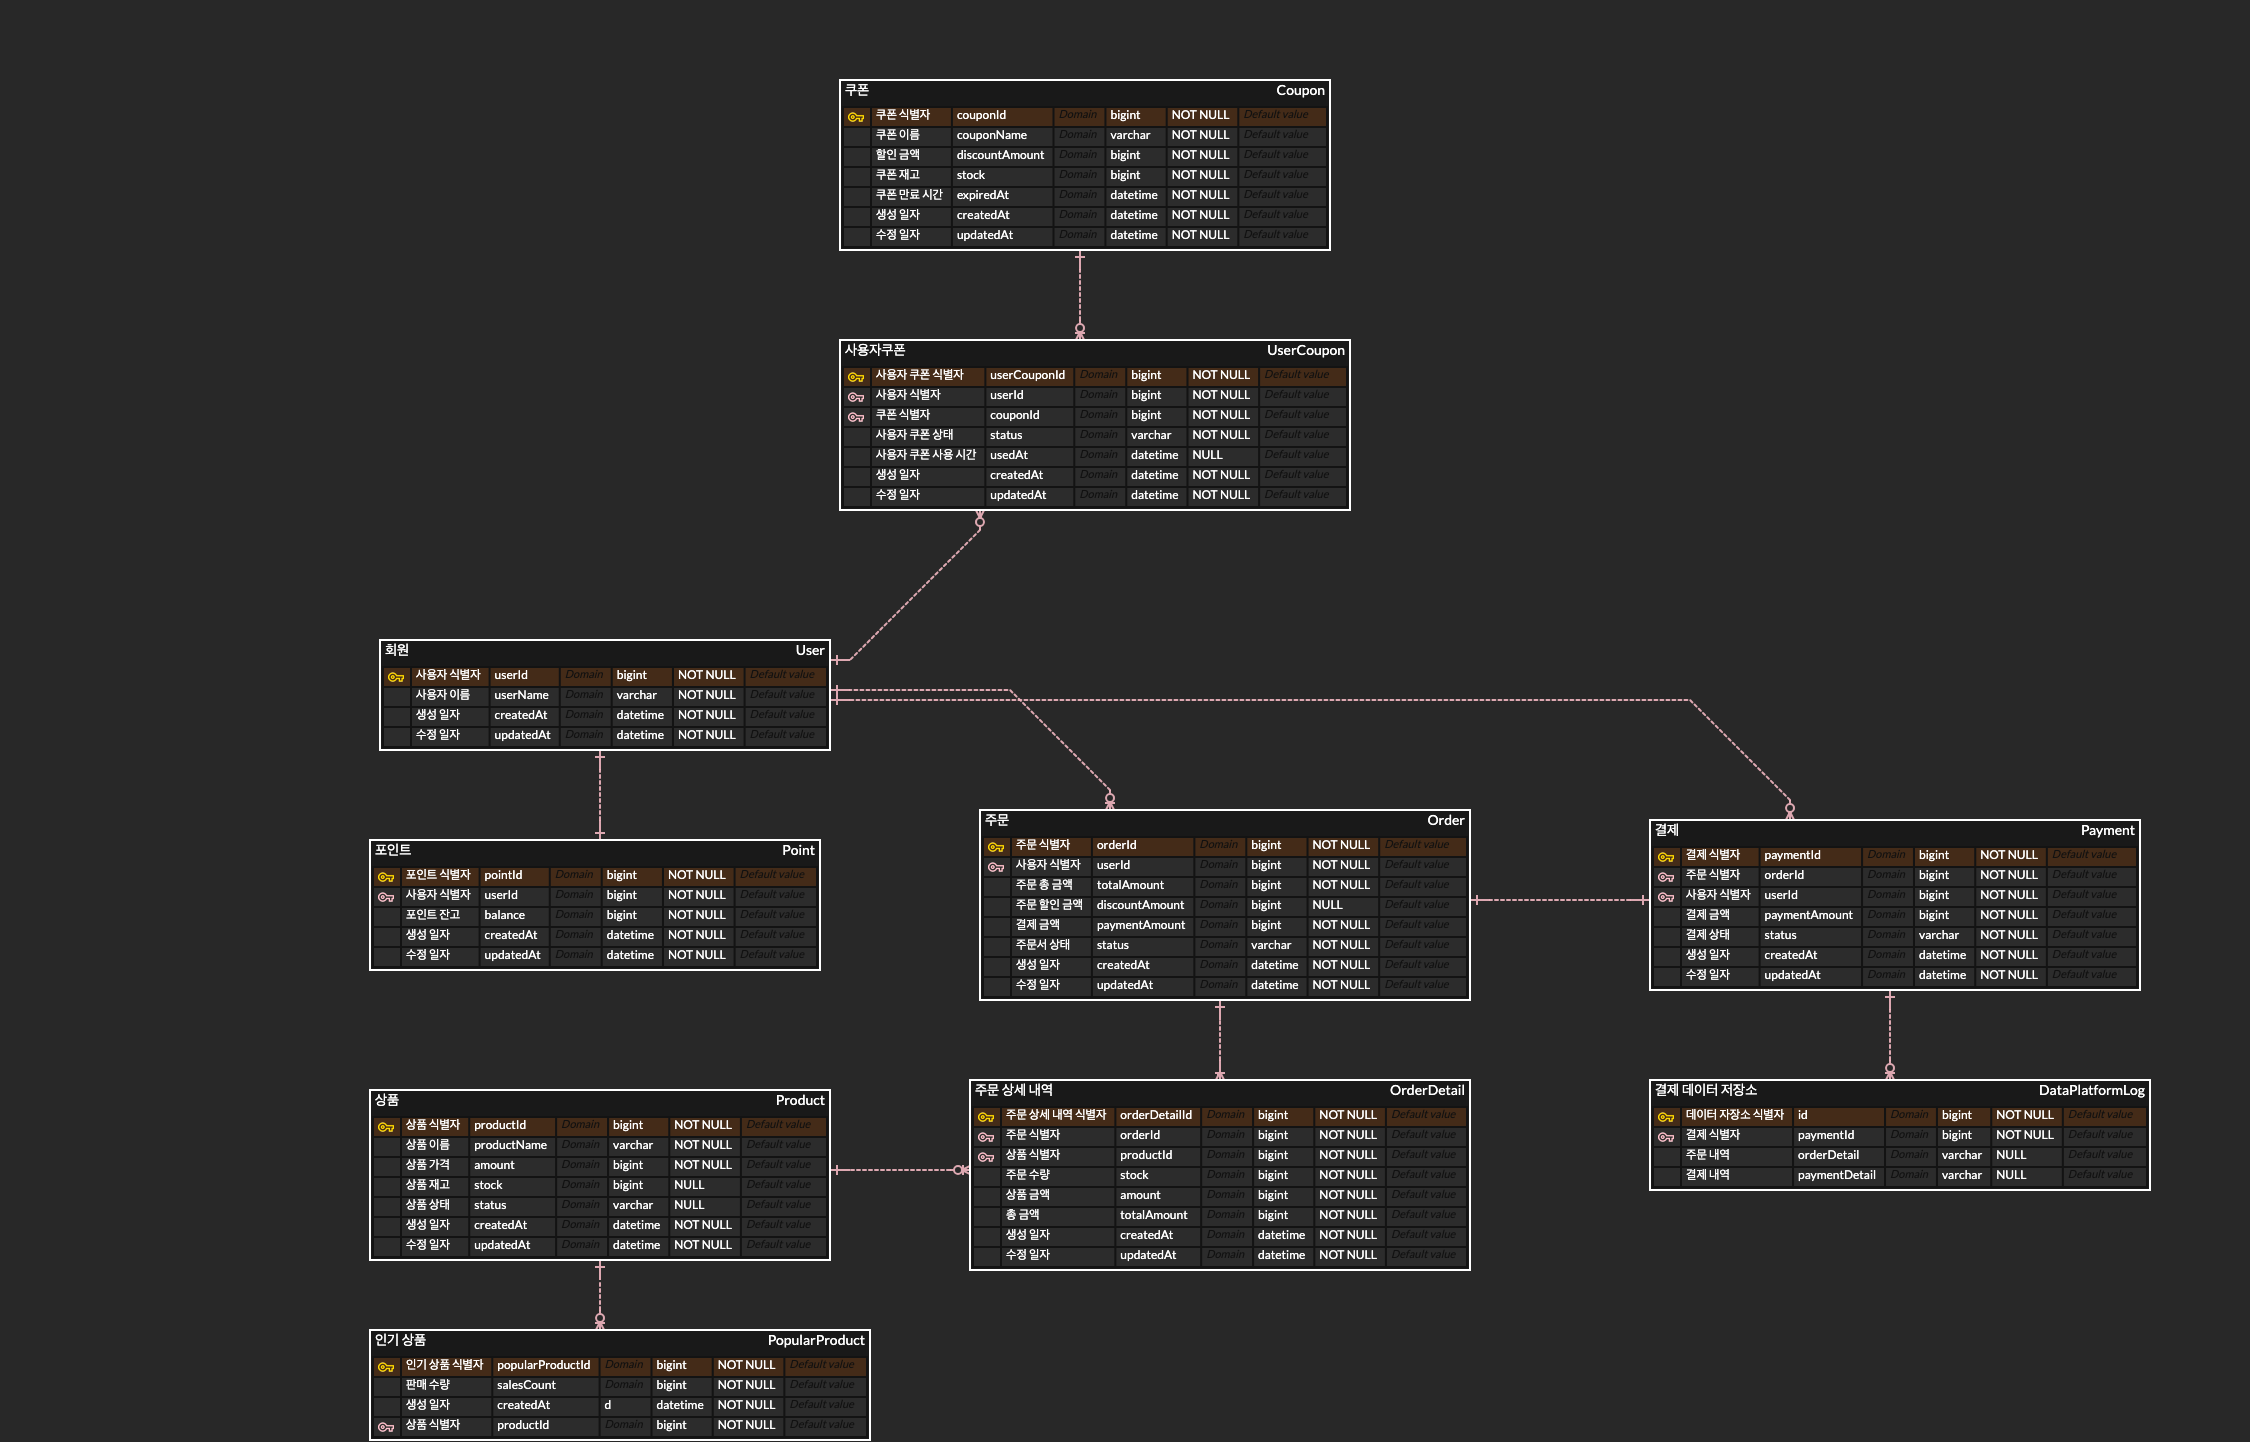
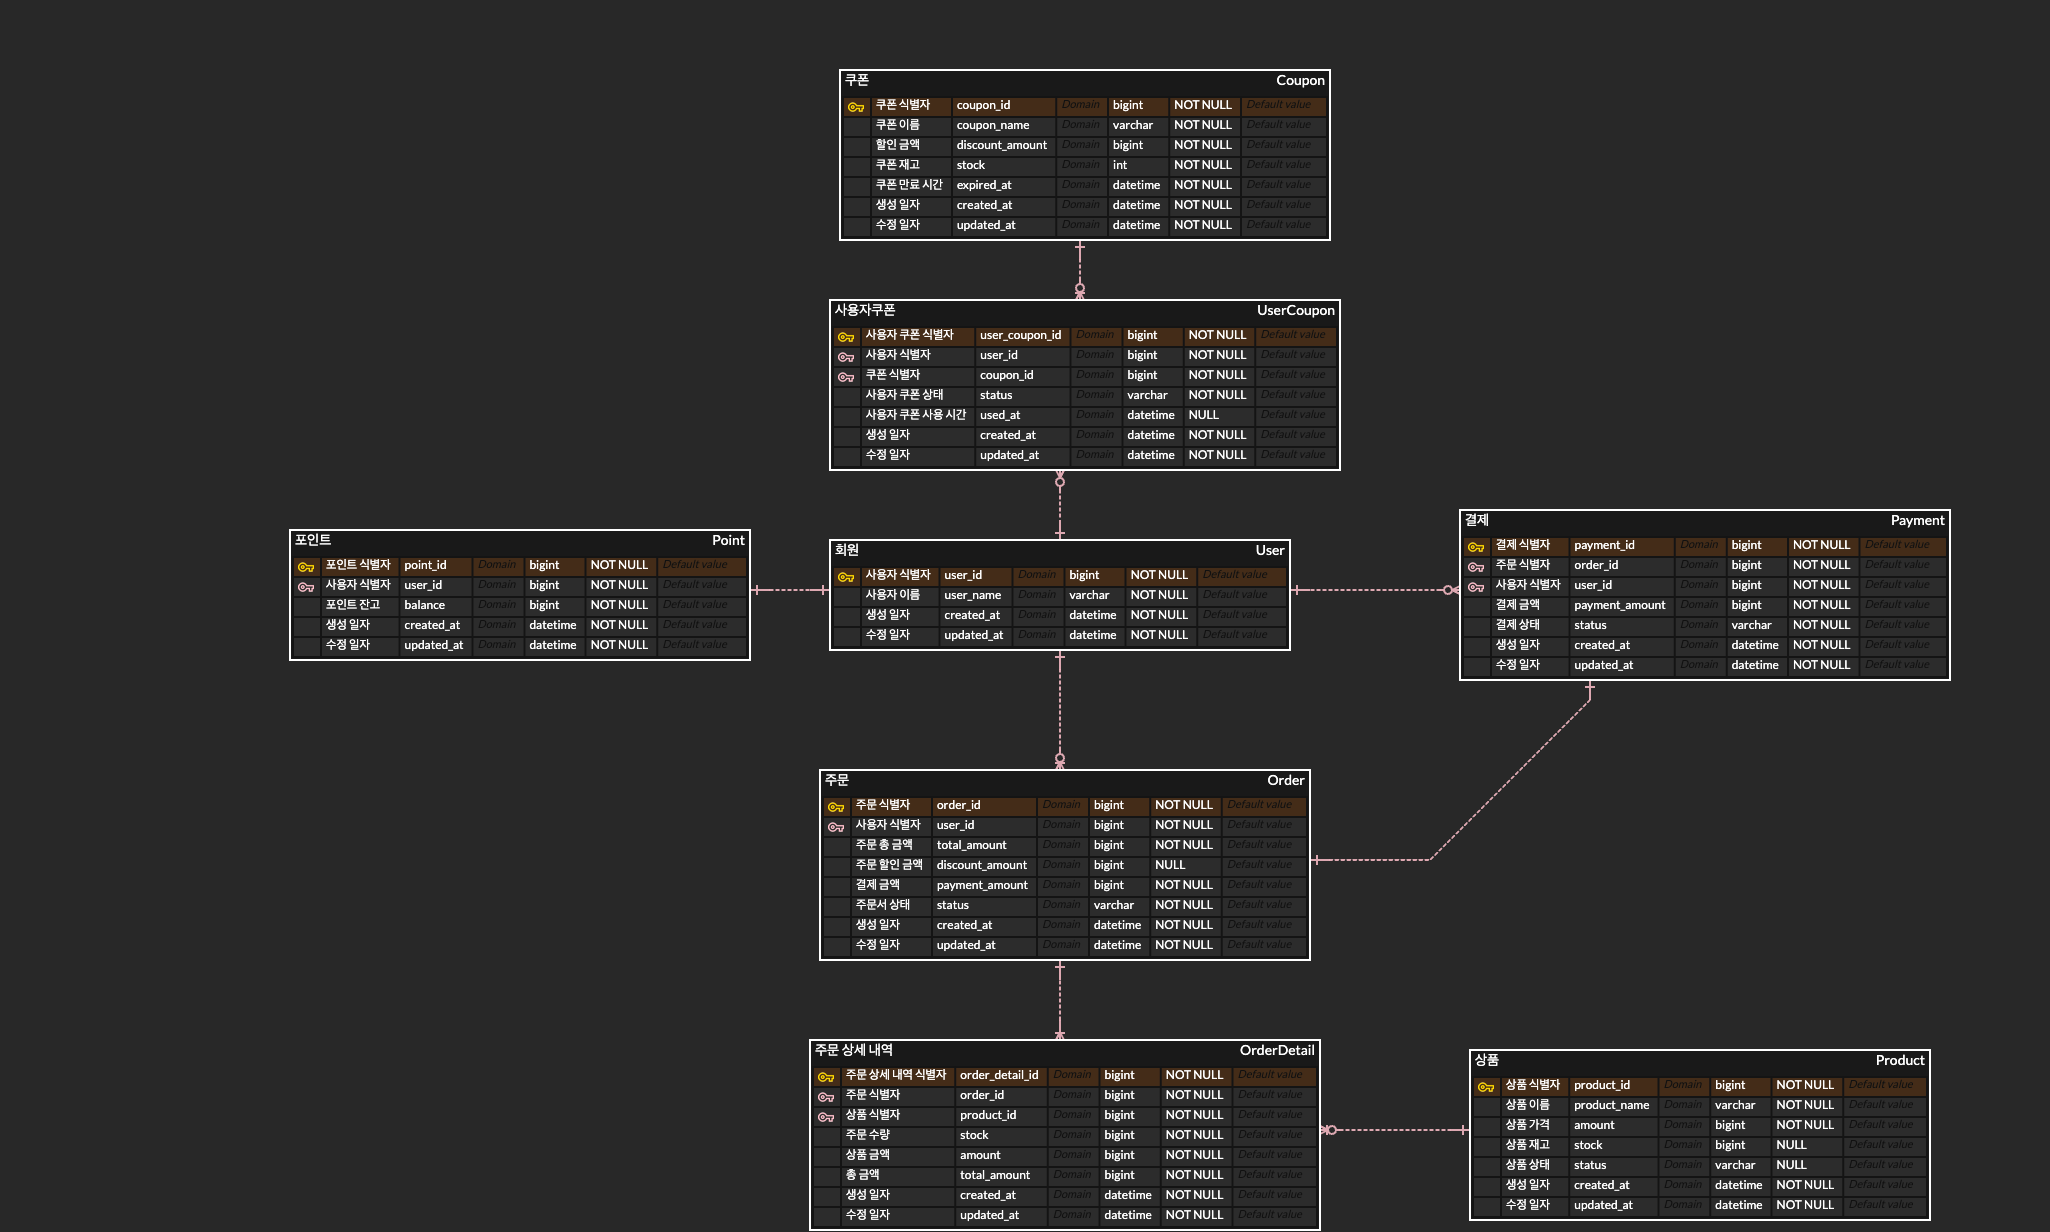
Fix : ERD  및 API 설계 변경
- 결제 정보를 저장하는 데이터 테이블 삭제
- 상위 인기 품목 저장 테이블 삭제
- 주문서 작성 시 다양한 품목을 저장할 수 있도록 API 설계 수정

diff --git a/docs/STEP_06_API_정의서.md b/docs/STEP_06_API_정의서.md
@@ -176,11 +176,19 @@
 ### 4.1 주문서 생성
 - **Endpoint**: `POST /api/v1/orders`
 - **Request**:
-  ```json
+```json
   {
     "userId": 1,
-    "productId": 1,
-    "quantity": 2,
+    "orderDetails": [
+      {
+      "productId": 1,
+      "quantity": 2
+      },
+      {
+      "productId": 3,
+      "quantity": 1
+      }
+    ],
     "userCouponId": 1
   }
   ```
@@ -193,15 +201,21 @@
     "data": {
       "orderId": 1,
       "orderDate": "2025-01-01T10:30:00",
-      "totalAmount": 50000,
+      "totalAmount": 70000,
       "discountAmount": 5000,
-      "paymentAmount": 45000,
+      "paymentAmount": 65000,
       "orderDetails": [
         {
           "productName": "항해 기념품",
           "quantity": 2,
           "unitPrice": 25000,
           "totalPrice": 50000
+        },
+        {
+          "productName": "항해 녹차",
+          "quantity": 1,
+          "unitPrice": 20000,
+          "totalPrice": 20000
         }
       ],
       "appliedCoupon": {
